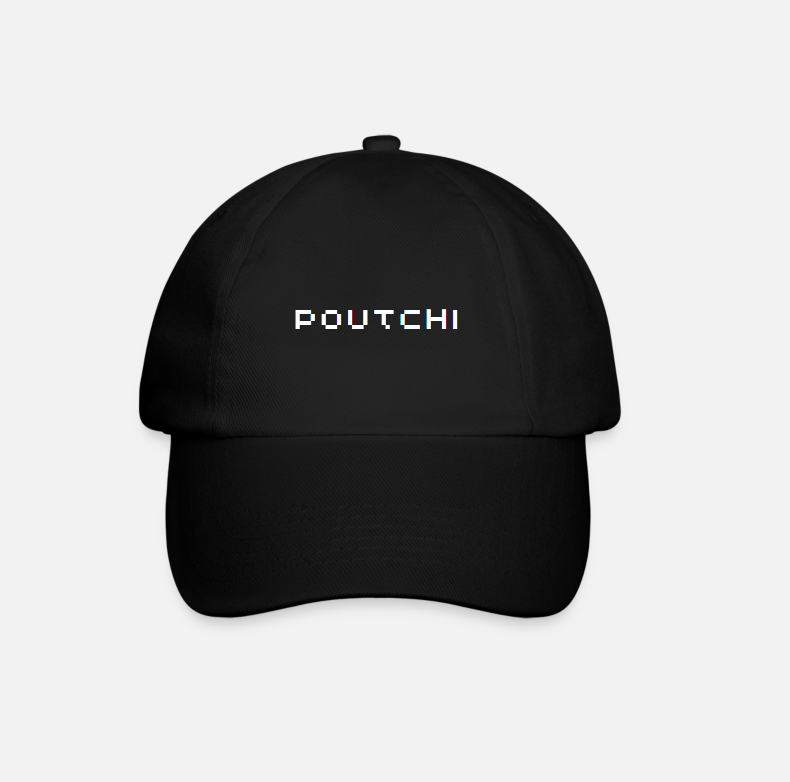
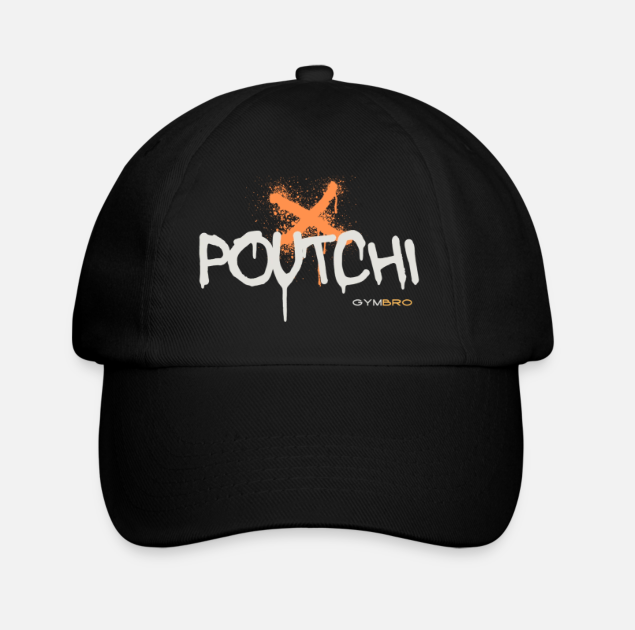
Ajout galleria + new casquette

Changed region(s): [[0.0898, 0.0905, 0.8976, 0.9048], [0.2992, 0.2714, 0.6583, 0.5127]]

diff --git a/src/app/produit-unique/produit-unique.component.ts b/src/app/produit-unique/produit-unique.component.ts
@@ -6,6 +6,8 @@ import { ICatalogue } from '../interfaces/icatalogue';
 import { CartService } from '../shared/services/cart.service';
 import { LocalstorageService } from '../shared/services/localstorage.service';
 import { ProduitsService } from '../shared/services/produits.service';
+import { ISlider } from '../interfaces/islider';
+import { SliderService } from '../shared/services/slider.service';
 
 @Component({
   selector: 'app-produit-unique',
@@ -15,6 +17,8 @@ import { ProduitsService } from '../shared/services/produits.service';
 })
 export class ProduitUniqueComponent {
   public faArrowLeft = faArrowLeft;
+  public sliderImageSrc: any = this._sliderImage.sliderImagesUnique;
+
   public catalogue: ICatalogue[] = this._produits.catalogue;
   public idProductToDisplay: any;
   public currentProducToDisplay: any;
@@ -25,6 +29,22 @@ export class ProduitUniqueComponent {
   public quantitySelected: number = 1;
   public numbersArticle: number[] = [];
   public littleNavigation: string = "";
+  public currentImagesToDisplay!: any;
+
+  responsiveOptions: any[] = [
+    {
+      breakpoint: '1024px',
+      numVisible: 5
+    },
+    {
+      breakpoint: '768px',
+      numVisible: 3
+    },
+    {
+      breakpoint: '560px',
+      numVisible: 1
+    }
+  ];
 
   // public produits!: ICatalogue[];
 
@@ -35,6 +55,8 @@ export class ProduitUniqueComponent {
     private _ar: ActivatedRoute,
     private _storage: LocalstorageService,
     private _messageService: MessageService,
+    private _sliderImage: SliderService
+
 
   ) { }
 
@@ -47,6 +69,14 @@ export class ProduitUniqueComponent {
 
   public getOneProduct() {
     this.currentProducToDisplay = this.catalogue[this.idProductToDisplay - 1];
+    this.sliderImageSrc.forEach((element: any) => {
+      if (element.Id == this.idProductToDisplay) {
+        this.currentImagesToDisplay = element;
+        console.log('this.currentImagesToDisplay', this.currentImagesToDisplay);
+
+      }
+    });
+
     this.checkTypeProduct();
   }
 

diff --git a/src/app/shared/services/slider.service.ts b/src/app/shared/services/slider.service.ts
@@ -7,11 +7,14 @@ import { ISlider } from 'src/app/interfaces/islider';
 export class SliderService {
 
   public sliderImages!: ISlider[];
+  public sliderImagesUnique: ISlider[] = [];
+  private imagesSrc: string = "../../../assets/images/";
   constructor() {
 
     this.sliderImages = [
       {
-        PreviewImageSrc: "../../../assets/images/poutchi_gang.jpg",
+        Id: -1,
+        PreviewImageSrc: ["../../../assets/images/poutchi_gang.jpg"],
         Alt: "Le gang",
         Title: "Poutchi gang"
       },
@@ -20,12 +23,33 @@ export class SliderService {
       //   Alt: "Be Patient",
       //   Title: "Be Patient"
       // },
+      // {
+      //   PreviewImageSrc: "../../../assets/images/presentation_transformation.jpg",
+      //   Alt: "New beginnings",
+      //   Title: "New beginnings"
+      // }
+    ];
+
+    this.sliderImagesUnique = [
       {
-        PreviewImageSrc: "../../../assets/images/presentation_transformation.jpg",
-        Alt: "New beginnings",
-        Title: "New beginnings"
+        Id: 1,
+        PreviewImageSrc: ["../../../assets/images/gymbro.png"],
+        Alt: "tshirt",
+        Title: "tshirt"
+      }, {
+        Id: 2,
+        PreviewImageSrc: [
+          `${this.imagesSrc}Poutchicasquette.png`,
+          `${this.imagesSrc}casquette_dos.png`,
+          `${this.imagesSrc}casquette_droite.png`,
+          `${this.imagesSrc}casquette_gauche.png`,
+          `${this.imagesSrc}casquette_haut.png`],
+        Alt: "casquette",
+        Title: "casquette"
       }
     ]
 
   }
+
+
 }

diff --git a/src/app/produit-unique/produit-unique.component.html b/src/app/produit-unique/produit-unique.component.html
@@ -18,10 +18,23 @@
                     </h1>
                 </div>
 
-                <div class="mb-16 rounded-md flex flex-col justify-center mx-2 my-2">
+                <div class="mb-16 rounded- mx-2 my-2">
                     <div data-aos="zoom-in" data-aos-delay="150"
                         class=" rounded-md flex justify-center image_container">
-                        <img class="rounded-md" [src]="currentProducToDisplay.Image" alt="gymbro" width="425">
+                        <!-- <img class="rounded-md" [src]="currentProducToDisplay.Image" alt="gymbro" width="800"> -->
+
+                        <p-galleria [value]="currentImagesToDisplay.PreviewImageSrc"
+                            [responsiveOptions]="responsiveOptions" [circular]="true" [numVisible]="5">
+                            <ng-template pTemplate="item" let-item>
+                                <img [src]="item"
+                                    style="width: 100%; display: block; width: 800px; object-fit: cover;" />
+                            </ng-template>
+                            <ng-template pTemplate="thumbnail" let-item>
+                                <div class="w-auto h-40">
+                                    <img [src]="item" style="display: block; object-fit: cover; height: 100%;" />
+                                </div>
+                            </ng-template>
+                        </p-galleria>
                     </div>
                 </div>
 

diff --git a/src/app/boutique/boutique.component.html b/src/app/boutique/boutique.component.html
@@ -40,12 +40,12 @@
 
             <div class="max-w-[1350px]">
                 <div class="flex justify-center py-10 top_vente__container flex-wrap">
-                    <div *ngFor="let itemCatalogue of catalogue; let i = index" (click)="displayDetails(i)" class="w-80 cursor-pointer
+                    <div *ngFor="let itemCatalogue of catalogue; let i = index" (click)="displayDetails(i)" class="w-96 cursor-pointer
                 rounded-md flex flex-col justify-center mx-2 pb-10">
                         <div data-aos="fade-up" data-aos-delay="300"
-                            class="bg-black rounded-md flex justify-center image_container hover:scale-105 transition-all ease-in-out">
+                            class="bg-gray-100 rounded-md flex justify-center image_container hover:scale-105 transition-all ease-in-out">
                             <img class="rounded-md" [src]="itemCatalogue.Image" alt="gymbro"
-                                (mouseover)="itemCatalogue.SecImage" (mouseout)="itemCatalogue.Image">
+                                (mouseover)="itemCatalogue.SecImage" (mouseout)="itemCatalogue.Image" width="500">
                         </div>
                         <div data-aos="fade-up" data-aos-delay="150" class="text__description text-center pt-3">
                             <span class="text-gray-600">{{itemCatalogue.Categorie}}</span>

diff --git a/src/app/homepage/catalogue-homepage/catalogue-homepage.component.html b/src/app/homepage/catalogue-homepage/catalogue-homepage.component.html
@@ -12,13 +12,13 @@
 
         <div class="flex top_vente__container justify-center min-h-[600px] flex-wrap">
             <ng-container *ngFor="let itemCatalogue of catalogue;let i = index">
-                <div *ngIf="i<4" class="w-80 max-sm:mb-10
+                <div *ngIf="i<4" class="w-96 max-sm:mb-10
                 rounded-md flex flex-col justify-center mx-2 my-2 cursor-pointer">
                     <div class="rounded-lg flex justify-center image_container" data-aos="zoom-in-down"
                         data-aos-delay="">
                         <img (click)="displayDetails(i)" class="rounded-lg hover:scale-[1.02] transition-all"
                             [src]="itemCatalogue.Image" alt="gymbro" (mouseover)="itemCatalogue.SecImage"
-                            (mouseout)="itemCatalogue.Image">
+                            (mouseout)="itemCatalogue.Image" width="500">
                     </div>
                     <div class="text__description text-center pt-3" data-aos="fade-up">
                         <!-- <span class="text-gray-400">{{itemCatalogue.Categorie}}</span> -->

diff --git a/src/app/paiement/cancel/cancel.component.html b/src/app/paiement/cancel/cancel.component.html
@@ -1,15 +1,14 @@
 <div class="mx-10 min-h-[calc(100vh-300px)]">
     <div class="w-full flex justify-center items-center h-52">
-        <h1 class="font-bold text-4xl lg:text-6xl">Un problème c'est produit</h1>
+        <h1 class="font-bold text-4xl lg:text-6xl">Un problème s'est produit</h1>
     </div>
 
     <div class="flex flex-col items-center">
         <div class="pb-10 ">
             <p class="">Le paiement n'a pas pu être traité.</p>
             <p class="py-1">Vous pouvez retourner à la boutique en cliquant sur ce bouton</p>
-            <button
-                class="mt-5 rounded-lg mr-3 font-bold bg-blue-600 text-white transition duration-300 p-2 w-32 h-12 hover:bg-blue-700 "><a
-                    routerLink="">Accueil</a></button>
+            <a routerLink="">Accueil<button
+                    class="mt-5 rounded-lg mr-3 font-bold bg-blue-600 text-white transition duration-300 p-2 w-32 h-12 hover:bg-blue-700 "></button></a>
         </div>
 
 

diff --git a/server/server.js b/server/server.js
@@ -11,11 +11,6 @@ app.use(cors({ origin: true, credentials: true, methods: 'POST,GET,PUT,OPTIONS,D
 
 const stripe = require("stripe")(serverKey);
 
-app.get("/*", (req, resp) => {
-    resp.sendFile(path.join(__dirname + 'dist/poutchigang/index.html'))
-
-});
-
 app.post("/checkout", async (req, resp, next) => {
     try {
 

diff --git a/src/app/interfaces/islider.ts b/src/app/interfaces/islider.ts
@@ -1,5 +1,6 @@
 export interface ISlider {
-    PreviewImageSrc: string,
+    Id: number,
+    PreviewImageSrc: string[],
     Alt: string,
     Title: string
 }
